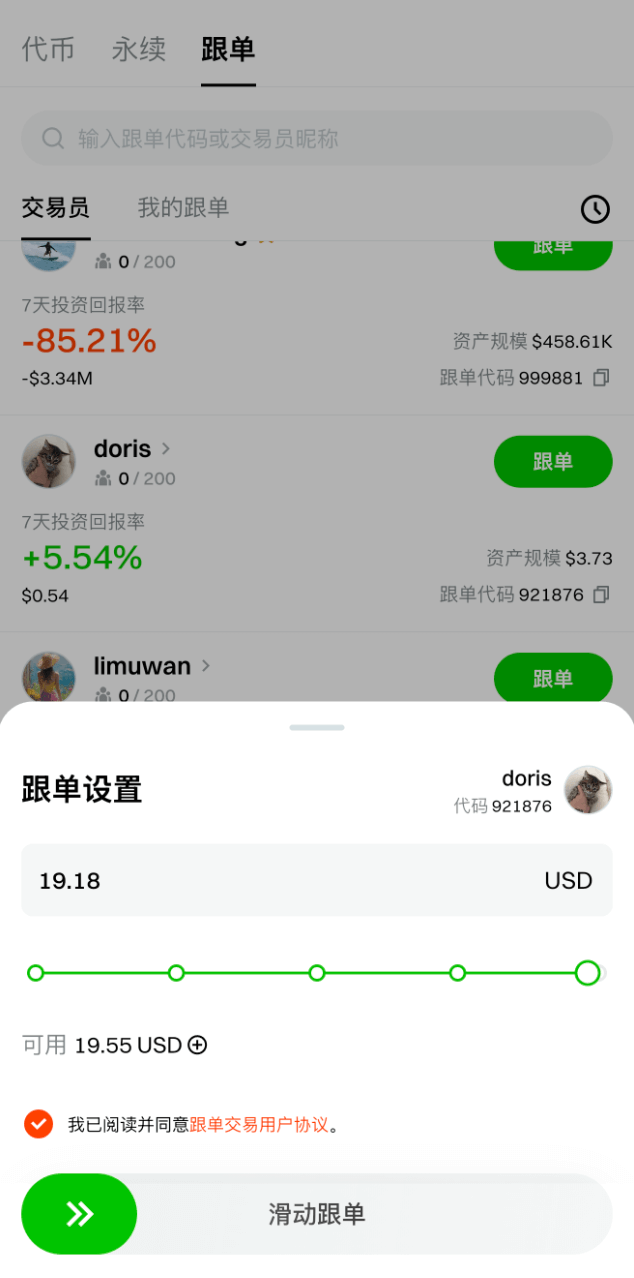
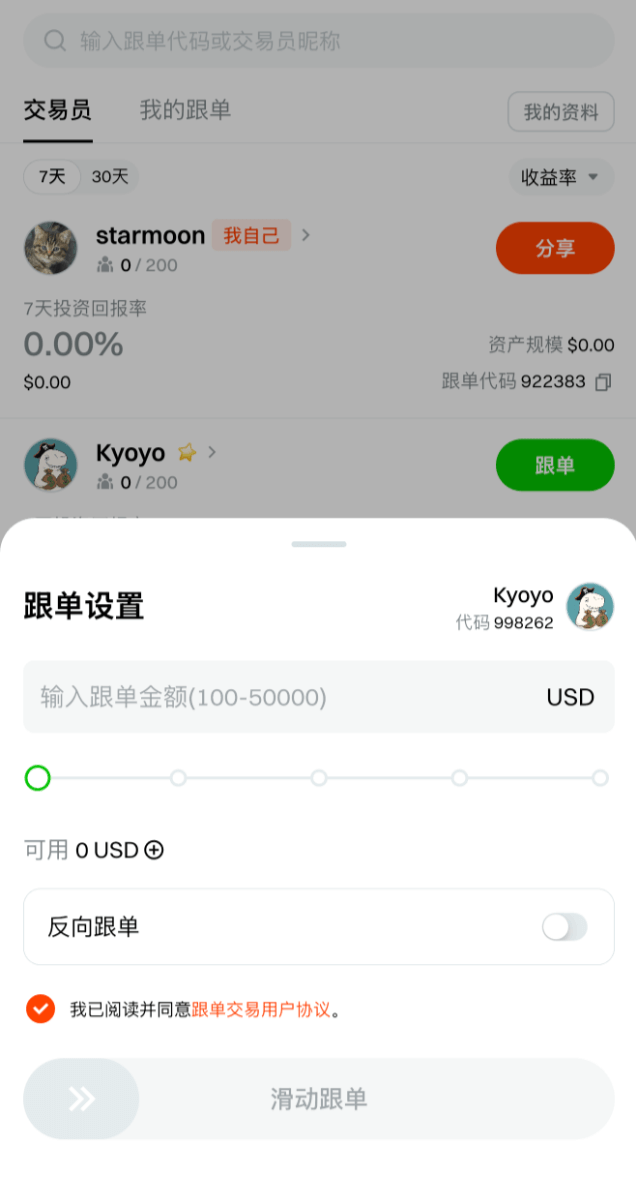
feat: reverse copy (#57)

diff --git a/docs/copy-trading/copy-trading-guide.md b/docs/copy-trading/copy-trading-guide.md
@@ -74,6 +74,8 @@ Currently supports **100+ perpetual contract pairs**, consistent with UXUY contr
 - Enter **margin amount** and **stop-loss ratio**
 - Confirm to start — the system will auto-sync trades
 
+You can also choose reverse copy trading. In this mode, your positions will always be the opposite of the trader’s (their longs become your shorts, and their shorts become your longs).
+
 <img src="/img/copy-trading/copy-trading-interface.png" alt="Copy Trade Interface" width="300px" />
 
 ### Step 4: View Positions and History
